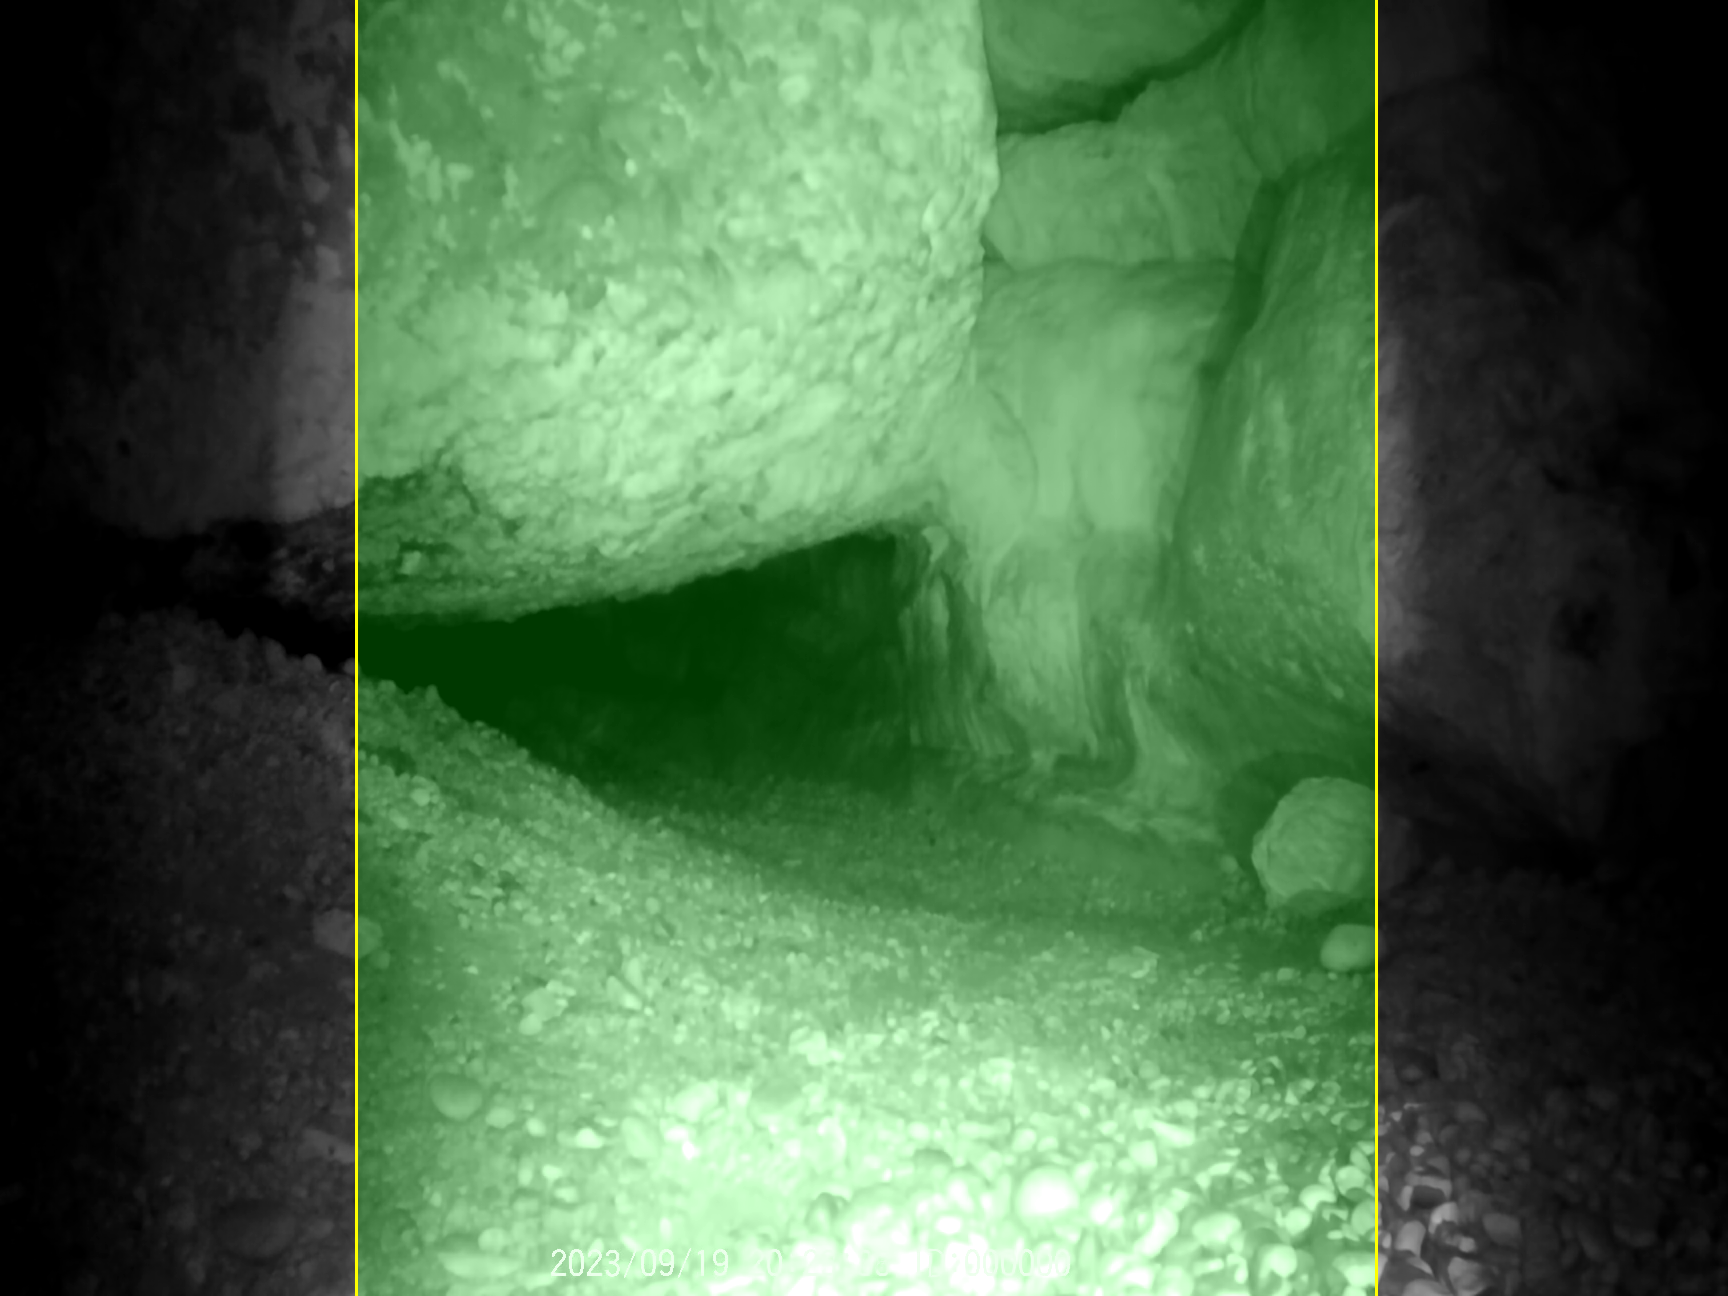
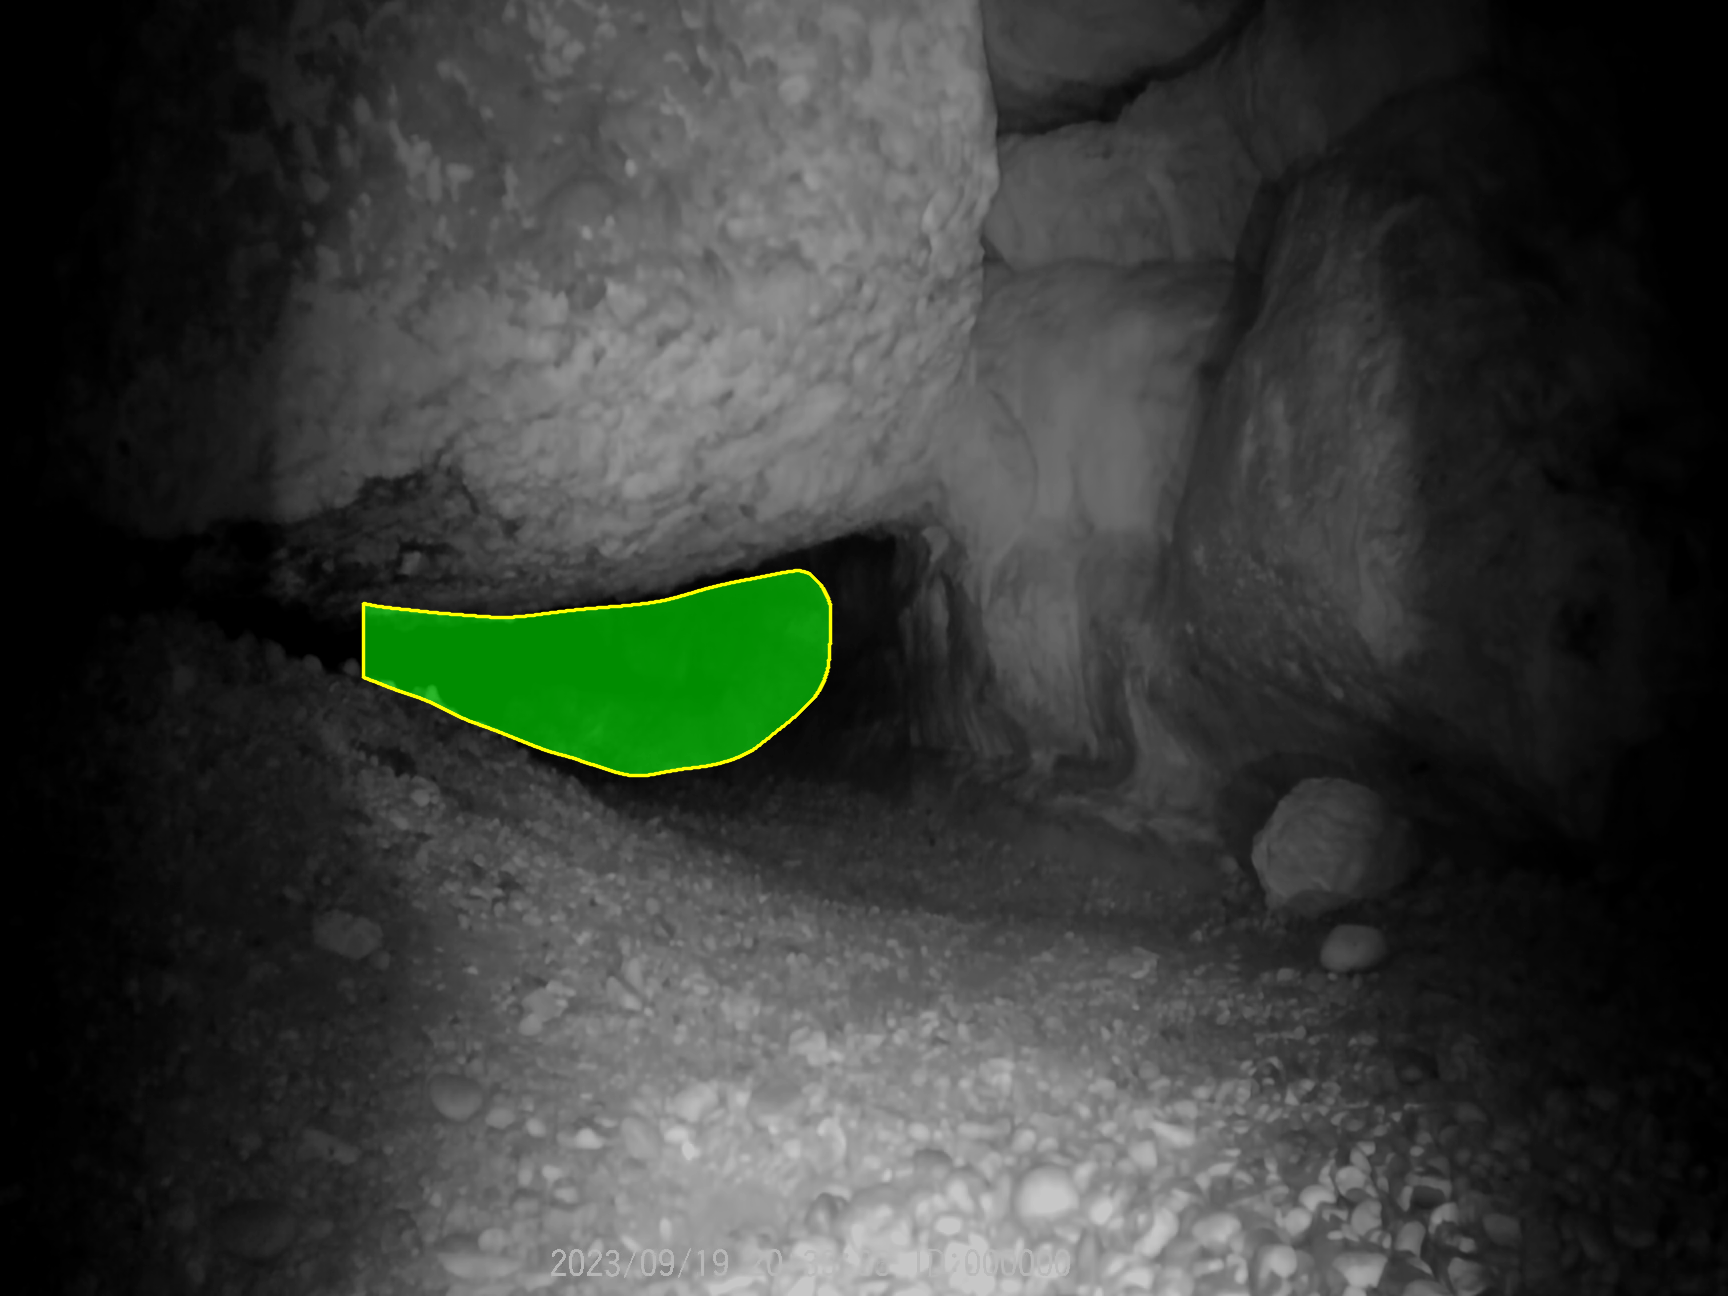
docs: update example images to use hybrid region from OUT_FINAL54_2

diff --git a/README.md b/README.md
@@ -53,8 +53,8 @@ python -m bat_tracker.valid_region \
 
 Aquí se muestran visualizaciones de las salidas generadas:
 
-**1. Máscara de Zona Válida:**
-*Filtra los laterales oscuros basándose en el perfil de iluminación horizontal, reteniendo la zona útil.*
+**1. Máscara de Zona Válida (Método Híbrido):**
+*Filtra los laterales oscuros combinando profundidad en el centro y perfil de iluminación, reteniendo la zona útil.*
 ![Valid Region](src_assets/valid_region_overlay.png)
 
 **2. Tracking Final:**
